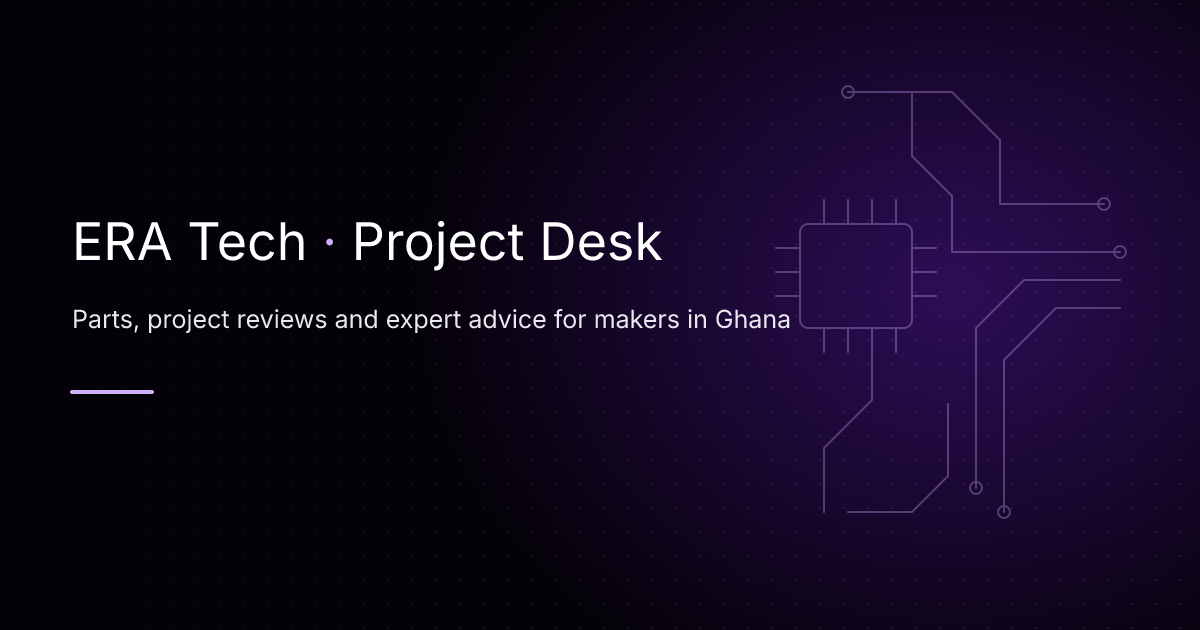
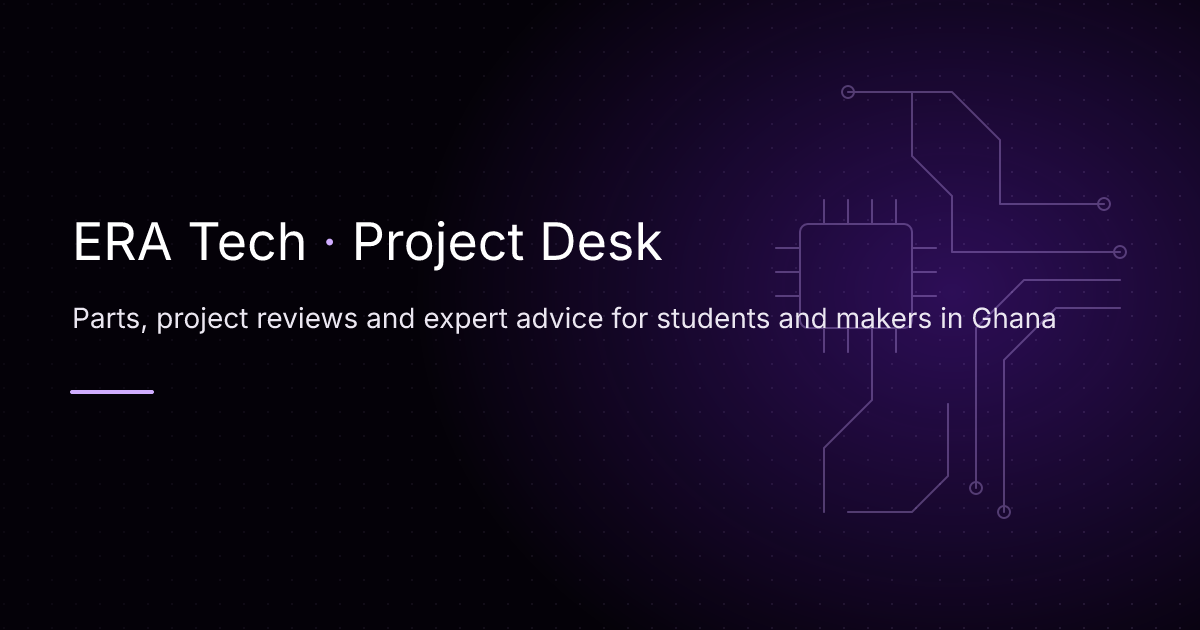
fix: enlarge share subtitle and include students

Changed region(s): [[0.0617, 0.4825, 0.8942, 0.5429]]

diff --git a/scripts/generate-og.js b/scripts/generate-og.js
@@ -44,7 +44,7 @@ const svg = `<svg xmlns="http://www.w3.org/2000/svg" width="1200" height="630" v
 </g>
 <g font-family="Inter" font-weight="600">
   <text x="72" y="260" font-size="52" fill="${white}">${xml(brandName)} <tspan fill="${accent}">·</tspan> ${xml(productName)}</text>
-  <text x="72" y="328" font-size="25" font-weight="400" fill="${muted}">Parts, project reviews and expert advice for makers in Ghana</text>
+  <text x="72" y="328" font-size="28" font-weight="400" fill="${muted}">${xml(shareImage.subtitle)}</text>
 </g>
 <path d="M72 392h80" stroke="${accent}" stroke-width="4" stroke-linecap="round"/>
 </svg>`;

diff --git a/src/content/site.js b/src/content/site.js
@@ -16,11 +16,13 @@ export const legalName = "ERA Technologies";
 export const siteTitle = `${brandName} · ${productName}`;
 /** Canonical production origin for metadata and sharing. */
 export const siteBaseUrl = "https://eratechgh.com";
+const shareSubtitle = "Parts, project reviews and expert advice for students and makers in Ghana";
 export const shareImage = {
   path: "/og.png",
   width: 1200,
   height: 630,
-  alt: `${siteTitle} — Parts, project reviews and expert advice for makers in Ghana`,
+  subtitle: shareSubtitle,
+  alt: `${siteTitle} — ${shareSubtitle}`,
 };
 
 export const site = {
